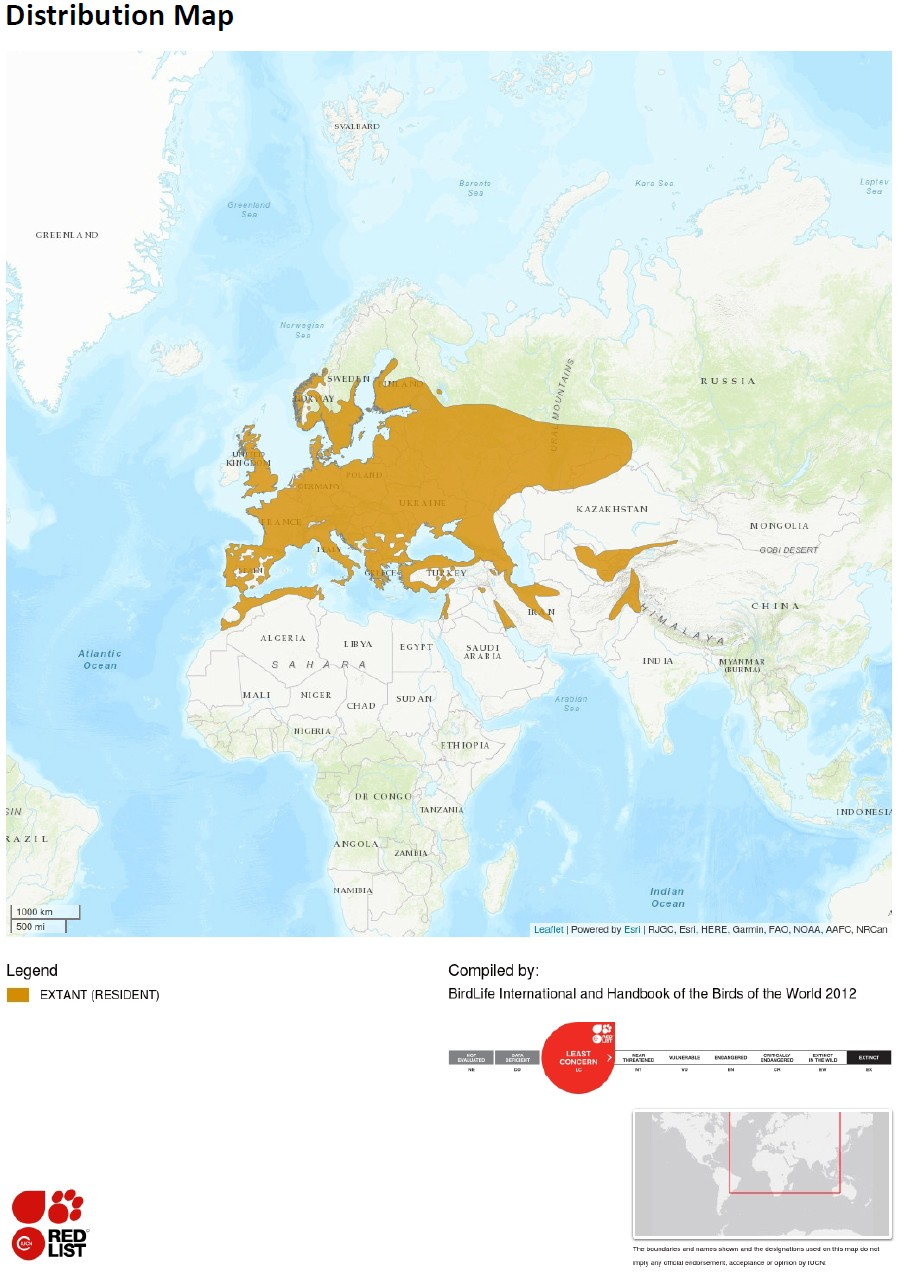
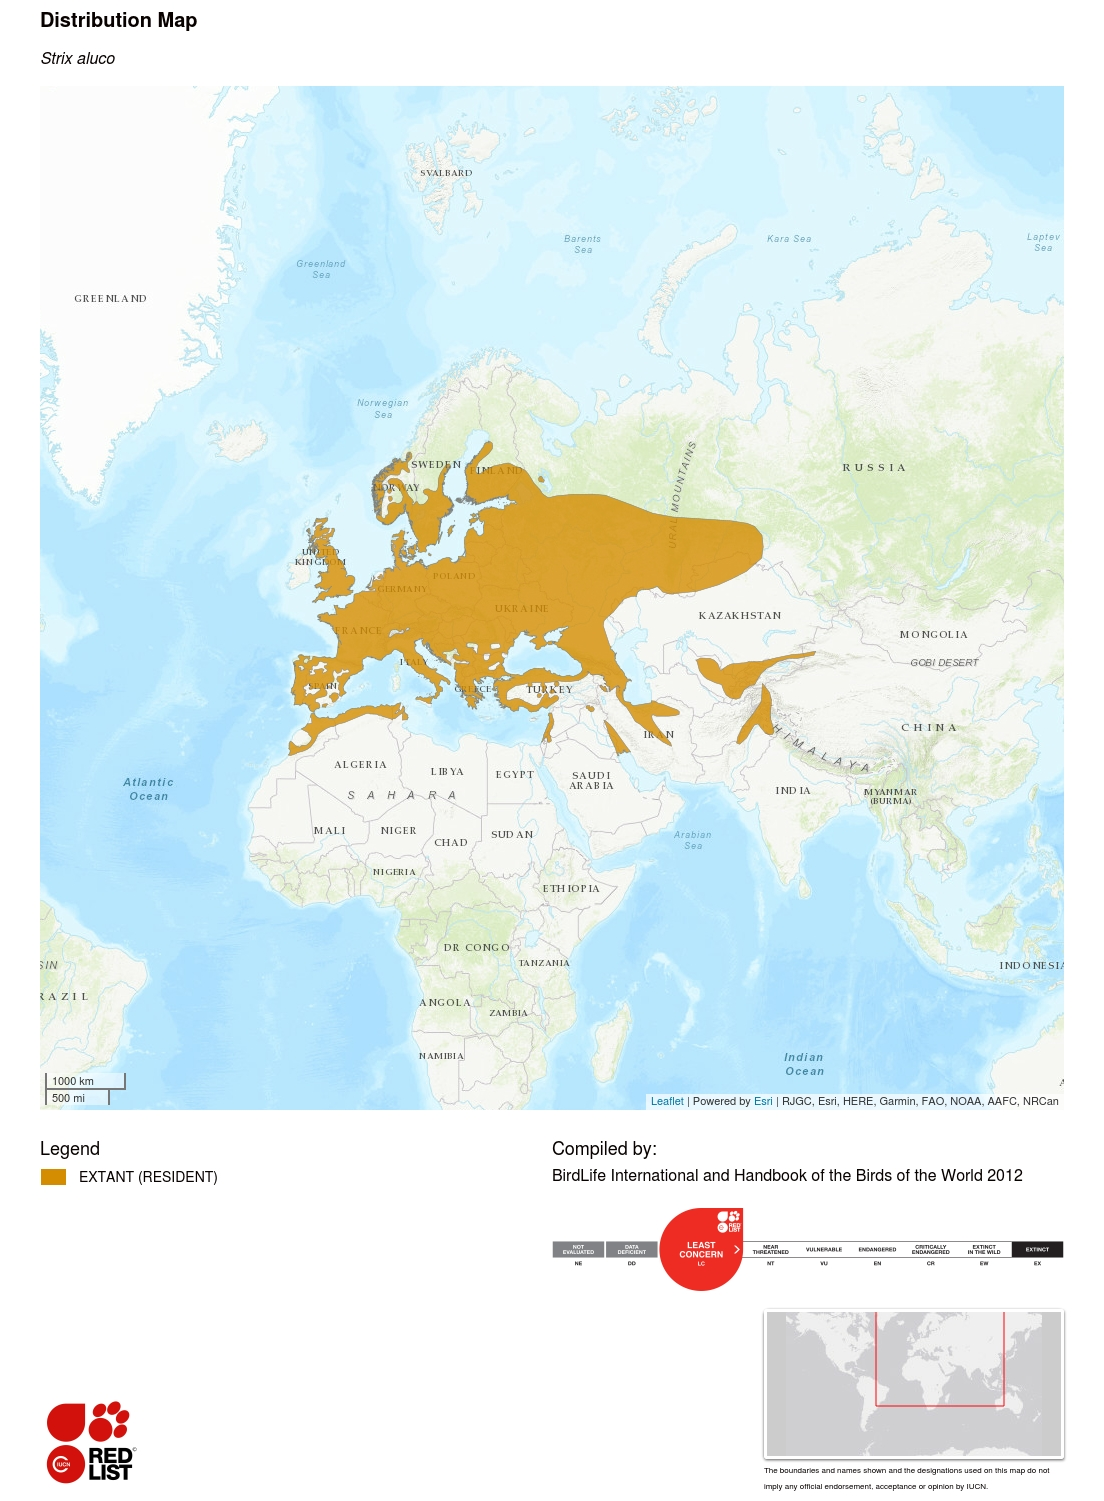
Refresh automatic distribution maps

diff --git a/docs/manual-map-overrides.md b/docs/manual-map-overrides.md
@@ -11,7 +11,7 @@ Begründung; `update.mjs` verwendet das JSON-Register, um geschützte Karten nic
 
 ## Aktueller Stand
 
-Aktuell sind 5 Karten als manuell gepflegt dokumentiert. Grund: IUCN liefert fuer diese Arten korrupte bzw.
+Aktuell sind 1 Karte als manuell gepflegt dokumentiert. Grund: IUCN liefert fuer diese Arten korrupte bzw.
 fehlerhafte Kartendaten. Die produktiven Karten duerfen deshalb nicht unbemerkt durch automatisch geladene IUCN-Karten
 ersetzt werden. Die Karten liegen ausschliesslich unter `species-assets/<SafeName>/map.jpg`.
 
@@ -20,10 +20,6 @@ ersetzt werden. Die Karten liegen ausschliesslich unter `species-assets/<SafeNam
 | Art | SafeName | Datei | Grund | Quelle / Hinweis | Letzte manuelle Pruefung | Audit-Status |
 |---|---|---|---|---|---|---|
 | Blaukehlchen | Blaukehlchen | `species-assets/Blaukehlchen/map.jpg` | IUCN liefert korrupte Kartendaten. | Von Felix manuell gepflegt; vor Pipeline-/Kartenlogik-Aenderungen schuetzen. | 2026-06-17 | erledigt/geprueft |
-| Fischertukan | Fischertukan | `species-assets/Fischertukan/map.jpg` | IUCN liefert korrupte Kartendaten. | Von Felix manuell gepflegt; vor Pipeline-/Kartenlogik-Aenderungen schuetzen. | 2026-06-17 | erledigt/geprueft |
-| Rotfuchs | Rotfuchs | `species-assets/Rotfuchs/map.jpg` | IUCN liefert korrupte Kartendaten. | Von Felix manuell gepflegt; vor Pipeline-/Kartenlogik-Aenderungen schuetzen. | 2026-06-17 | erledigt/geprueft |
-| Waldkauz | Waldkauz | `species-assets/Waldkauz/map.jpg` | IUCN liefert korrupte Kartendaten. | Von Felix manuell gepflegt; vor Pipeline-/Kartenlogik-Aenderungen schuetzen. | 2026-06-17 | erledigt/geprueft |
-| Panama-Kapuzineraffe | Panama-Kapuzineraffe | `species-assets/Panama-Kapuzineraffe/map.jpg` | Nach Pipeline-Import von Felix als manuell gepflegt markiert. | Manuell über Arten-Explorer gepflegt. | 2026-07-10 | erledigt/geprueft |
 
 ## Pflege-Regeln
 

diff --git a/docs/project-status.md b/docs/project-status.md
@@ -21,13 +21,9 @@ Report-Datenstand: `2026-07-25T09:13:12.342Z`
 | Assetprobleme | 0 |
 | Validierungsprobleme | 0 |
 
-## Manuell gepflegte Karten (5)
+## Manuell gepflegte Karten (1)
 
 - Blaukehlchen
-- Fischertukan
-- Panama-Kapuzineraffe
-- Rotfuchs
-- Waldkauz
 
 ## Aktive NC-Soundlizenzen (8)
 
